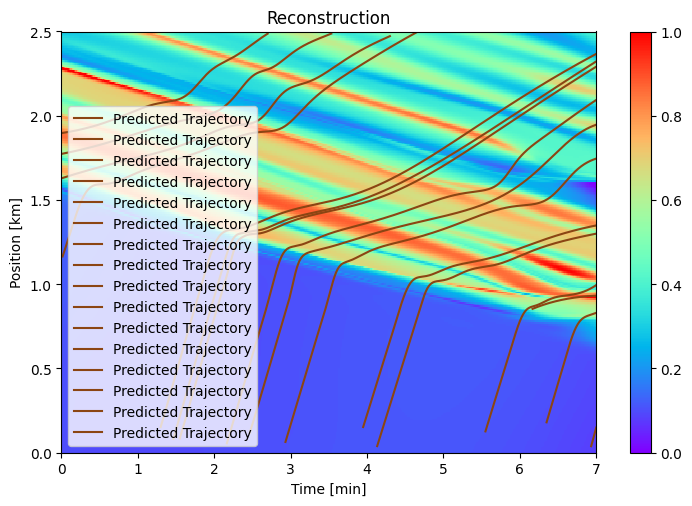
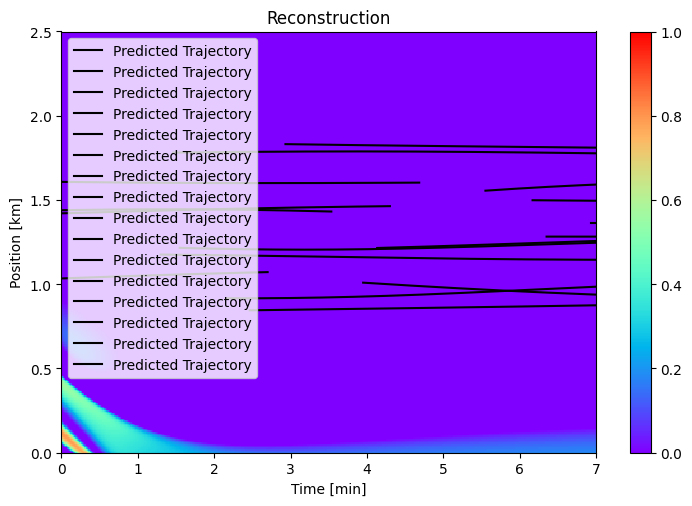
add data loss training

diff --git a/neural_network_pytorch.py b/neural_network_pytorch.py
@@ -11,8 +11,10 @@ import torch
 import torch.nn.functional as F
 import torch.nn as nn
 import torch.optim as optim
+from tqdm import tqdm
 from torch.autograd import Variable
 import numpy as np
+import torch
 
 class NeuralNetwork(nn.Module):
 
@@ -101,7 +103,7 @@ class NeuralNetwork(nn.Module):
         self.velocity_network = self.build_network(layers_speed, act=nn.Tanh())
 
 
-    def calculate_losses(self, t, x, u, v, X_f, t_g, u_v, only_data=False):
+    def calculate_losses(self, t, x, u, v, X_f, t_g, u_v):
         """
         Calculate and return the model losses based on inputs and physics.
         Parameters:
@@ -111,6 +113,7 @@ class NeuralNetwork(nn.Module):
             A dictionary of various loss components.
         """
         # Predictions
+        breakpoint()
         u_pred = torch.stack([self.net_u(t[i], x[i]) for i in range(len(t))]) - torch.stack(self.noise_rho_bar)
         v_pred = self.net_v(u)
         x_pred = torch.stack([self.net_x_pv(t_g[i], i) for i in range(len(t_g))])
@@ -125,65 +128,103 @@ class NeuralNetwork(nn.Module):
         MSEv2 = F.mse_loss(v, self.net_v(torch.stack(self.u_pred)))  # Placeholder, adjust as needed
 
 
-        if only_data:
-            return {
-                "MSEu1": MSEu1, "MSEu2": MSEu2,
-                "MSEtrajectories": MSEtrajectories,
-                "MSEv1": MSEv1, "MSEv2": MSEv2
-            }
-        else:
-            # Physics Losses
-            f_pred = self.net_f(X_f[:, 1], X_f[:, 0])  # Assuming X_f is [x, t]
-            g_pred = self.net_g(t_g)
+        f_pred = self.net_f(X_f[:, 1], X_f[:, 0])  # Assuming X_f is [x, t]
+        g_pred = self.net_g(t_g)
 
-            MSEf = torch.mean(f_pred**2)  # Residual of PDE Predictions flux function
-            MSEg = torch.mean(g_pred**2)  # Residual of PDE Predictions g function
-            MSEv = torch.mean(torch.relu(self.net_ddf(u_v))**2)  # Placeholder, adjust as needed
-            return {
-                "MSEu1": MSEu1, "MSEu2": MSEu2, "MSEf": MSEf, 
-                "MSEtrajectories": MSEtrajectories, "MSEg": MSEg,
-                "MSEv1": MSEv1, "MSEv2": MSEv2, "MSEv": MSEv
-            }
+        MSEf = torch.mean(f_pred**2)  # Residual of PDE Predictions flux function
+        MSEg = torch.mean(g_pred**2)  # Residual of PDE Predictions g function
+        MSEv = torch.mean(torch.relu(self.net_ddf(u_v))**2)  # Placeholder, adjust as needed
+        return {
+            "MSEu1": MSEu1, "MSEu2": MSEu2, "MSEf": MSEf, 
+            "MSEtrajectories": MSEtrajectories, "MSEg": MSEg,
+            "MSEv1": MSEv1, "MSEv2": MSEv2, "MSEv": MSEv
+        }
         
-    def preprocess_datapoints(self, x):
+
+    def calculate_data_losses(self, t, x, u, v):
+        # Predictions
+        u_pred = [self.net_u(t[i], x[i]) - self.noise_rho_bar[i] for i in range(len(t))] # list of tensors, since each tensor has a different shape
+        v_pred = [self.net_v(u[i]) for i in range(len(t))]
+        x_pred = [self.net_x_pv(t[i], i) for i in range(len(t))]  # data points or physics points?
+        # x_pred = torch.stack([self.net_x_pv(t_g[i], i) for i in range(len(t_g))]) # data points or physics points?
+
+        # Data Losses
+        MSEu1_list = [F.mse_loss(u[i], u_pred[i]) for i in range(len(u))]
+        MSEu1 = torch.mean(torch.stack(MSEu1_list))  # MSE for Adjusted Density Predictions (rho_pred - rho_true - noise)^2
+
+        MSEtrajectories_list = [F.mse_loss(x[i], x_pred[i]) for i in range(len(x))]
+        MSEtrajectories = torch.mean(torch.stack(MSEtrajectories_list))  # MSE for Trajectories Predictions (x_pred - x_true)^2
+
+        MSEv1_list = [F.mse_loss(v[i], v_pred[i]) for i in range(len(v))]
+        MSEv1 = torch.mean(torch.stack(MSEv1_list))  # MSE for Adjusted Density Predictions (rho_pred - rho_true - noise)^2
+
+        # MSEv1 = F.mse_loss(v, v_pred)  # MSE for Speed Predictions (v_pred - v_true)^2
+        # MSEv2 = F.mse_loss(v, self.net_v(torch.stack(self.u_pred)))  # Placeholder, adjust as needed
+
+        return {
+            "MSEu1": MSEu1,
+            "MSEtrajectories": MSEtrajectories,
+            "MSEv1": MSEv1
+        }
+
+        return {
+            "MSEu1": MSEu1, "MSEu2": MSEu2,
+            "MSEtrajectories": MSEtrajectories,
+            "MSEv1": MSEv1, "MSEv2": MSEv2
+        }
+
+        
+    def preprocess_datapoints_flatten(self, x):
         flattened_arrays = [arr.flatten() for arr in x] # Step 1: Flatten each ndarray
         concatenated_array = np.concatenate(flattened_arrays) # Concatenate the flattened arrays
         torch_tensor = torch.tensor(concatenated_array, dtype=torch.float32) # Step 3: Convert to a PyTorch tensor
         return torch_tensor
+    
+    def preprocess_datapoints(self, x):
+        return [torch.from_numpy(arr).float() for arr in x]
 
     # create a function to train the model with torch
     def train(self):
         '''
         Train the neural network
         '''
+
+        
         # Convert the data to torch tensors
         t = self.preprocess_datapoints(self.t) # 3267 data points in total (all PV data combined)
         x = self.preprocess_datapoints(self.x)
         u = self.preprocess_datapoints(self.u)
         v = self.preprocess_datapoints(self.v)
 
-        breakpoint()
+        # t = self.t
+        # x = self.x
+        # u = self.u
+        # v = self.v
 
-        X_f = torch.tensor(self.X_f, dtype=torch.float32)
+        X_f = torch.tensor(self.x_f, dtype=torch.float32)
         t_g = torch.tensor(self.t_g, dtype=torch.float32)
         u_v = torch.tensor(self.u_v, dtype=torch.float32)
         
         # Define the optimizer
         optimizer = optim.Adam(self.parameters(), lr=0.01)
-
-        breakpoint()
        
         # Train the model
-        for epoch in range(self.N_epochs):
-            print(f"epoch {epoch}")
+        self.N_epochs = 1000
+        for epoch in tqdm(range(self.N_epochs)):
+            
             optimizer.zero_grad()
-            losses = self.calculate_losses(t, x, u, v, X_f, t_g, u_v, only_data=True)
+            losses = self.calculate_data_losses(t, x, u, v)
+            print(losses)
+            loss = sum(losses.values())
+            # loss = sum([self.sigmas[i]*losses[key] for i, key in enumerate(losses.keys())])
             loss = sum([self.sigmas[i]*losses[key] for i, key in enumerate(losses.keys())])
+
             loss.backward()
             optimizer.step()
             if epoch % self.N_lambda == 0:
-                self.gamma_var = self.gamma_var - 0.1 * self.gamma_var.grad
-                self.noise_rho_bar = [self.noise_rho_bar[i] - 0.1 * self.noise_rho_bar[i].grad for i in range(self.N)]
+                pass
+                # self.gamma_var = self.gamma_var - 0.1 * self.gamma_var.grad
+                # self.noise_rho_bar = [self.noise_rho_bar[i] - 0.1 * self.noise_rho_bar[i].grad for i in range(self.N)]
         return losses
      
     # build pytorch network    
@@ -286,12 +327,18 @@ class NeuralNetwork(nn.Module):
         '''
         Return the standardized estimated agents' locations at t
         Parameters
-      
-        '''
+        '''        
+        predictions = []  # Define the variable "predictions"
+        t = torch.tensor(t, dtype=torch.float32)
+
+        predictions = self.net_x(t)
+
+        # breakpoint()
+        return predictions
         tf_dict = {}
         i = 0
-        for k, v in zip(self.t_tf, t):
+        for t in zip(self.t):
             tf_dict[k] = torch.tensor(v, dtype=torch.float32)
             i = i+1
-        return self.net_x(torch.stack([tf_dict[k] for k in self.t_tf])).detach().numpy()
+        return self.net_x(torch.stack([tf_dict[k] for k in self.t_f])).detach().numpy()
     

diff --git a/reconstruction_neural_network_pytorch.py b/reconstruction_neural_network_pytorch.py
@@ -10,6 +10,7 @@ import matplotlib.pyplot as plt
 from time import time
 from pyDOE import lhs
 from neural_network_pytorch import NeuralNetwork
+import torch
 
 def hms(seconds):
     m, s = divmod(seconds, 60)
@@ -92,7 +93,7 @@ class ReconstructionNeuralNetwork():
                                             layers_trajectories=layers_trajectories, 
                                             layers_speed=(1, 5, 5, 1),
                                             max_speed=v_max, beta=0.05,
-                                            N_epochs=3000, N_lambda=10, 
+                                            N_epochs=300, N_lambda=10, 
                                             sigmas=sigmas, opt=opt) # Creation of the neural network
             
     def createTrainingDataset(self, t, x, rho, v, v_max, L, Tmax, N_f, N_g, N_v):       
@@ -196,7 +197,7 @@ class ReconstructionNeuralNetwork():
         x = 2*(x - self.lb[0])/(self.ub[0] - self.lb[0])-1
         t = 2*(t - self.lb[1])/(self.ub[1] - self.lb[1])-1
         
-        return self.neural_network.predict(t, x)/2+0.5
+        return self.neural_network(t, x)/2+0.5
     
     def predict_speed(self, rho):
         '''
@@ -273,7 +274,6 @@ class ReconstructionNeuralNetwork():
         -------
         list of three Figures
             return the speed, reconstruction and error figures.
-
         '''
         
         x = axisPlot[0]
@@ -288,42 +288,48 @@ class ReconstructionNeuralNetwork():
             for j in range(0, Nt):
                 XY_prediction[k] = np.array([t[j], x[i]])
                 k = k + 1
-        tstar = XY_prediction[:, 0:1]
-        xstar = XY_prediction[:, 1:2]
+        tstar = torch.from_numpy(XY_prediction[:, 0:1]).float()
+        xstar = torch.from_numpy(XY_prediction[:, 1:2]).float()
+
+        # breakpoint()
         
-        rho_prediction = self.predict(tstar, xstar).reshape(Nx, Nt)
+        rho_prediction = self.neural_network.net_u(tstar, xstar).reshape(Nx, Nt)
+        rho_prediction = rho_prediction.detach().numpy()
         t_pred = [(np.linspace(np.amin(self.t[i]), np.amax(self.t[i]), t.shape[0])).reshape(-1, 1) for i in range(self.Nxi)]
         X_prediction = self.predict_trajectories(t_pred)
         rho_speed = np.linspace(0, 1).reshape(-1,1)
-        v_prediction = self.predict_speed(rho_speed).reshape(-1,1)
-        F_prediction = self.predict_F(rho_speed).reshape(-1,1)
+        # v_prediction = self.predict_speed(rho_speed).reshape(-1,1)
+        # F_prediction = self.predict_F(rho_speed).reshape(-1,1)
+
+        # breakpoint()
+
         
-        figSpeed = plt.figure(figsize=(7.5, 5))
-        plt.plot(rho_speed, v_prediction, rasterized=True, label=r'NN approximation of $V$')
-        plt.plot(rho_speed, F_prediction, rasterized=True, label=r'NN approximation of $F$')
-        densityMeasurements = np.empty((0,1))
-        speedMeasurements = np.empty((0,1))
-        for i in range(self.Nxi):
-            densityMeasurements = np.vstack((densityMeasurements, self.rho[i]))
-            speedMeasurements = np.vstack((speedMeasurements, self.v[i]))
-        plt.scatter(densityMeasurements, speedMeasurements, rasterized=True, 
-                    c='k', s=1, label=r'Data')
-        plt.xlabel(r'Normalized Density')
-        plt.ylabel(r'Speed [km/min]')
-        # plt.ylim(-v_prediction[0], v_prediction[0])
-        plt.xlim(0, 1)
-        plt.grid()
-        plt.legend()
-        plt.tight_layout()
-        # plt.title('Reconstruction')
-        # figSpeed.savefig('speed.eps', bbox_inches='tight')
-        figSpeed.savefig('speed_flow.png', bbox_inches='tight')
+        # figSpeed = plt.figure(figsize=(7.5, 5))
+        # plt.plot(rho_speed, v_prediction, rasterized=True, label=r'NN approximation of $V$')
+        # plt.plot(rho_speed, F_prediction, rasterized=True, label=r'NN approximation of $F$')
+        # densityMeasurements = np.empty((0,1))
+        # speedMeasurements = np.empty((0,1))
+        # for i in range(self.Nxi):
+        #     densityMeasurements = np.vstack((densityMeasurements, self.rho[i]))
+        #     speedMeasurements = np.vstack((speedMeasurements, self.v[i]))
+        # plt.scatter(densityMeasurements, speedMeasurements, rasterized=True, 
+        #             c='k', s=1, label=r'Data')
+        # plt.xlabel(r'Normalized Density')
+        # plt.ylabel(r'Speed [km/min]')
+        # # plt.ylim(-v_prediction[0], v_prediction[0])
+        # plt.xlim(0, 1)
+        # plt.grid()
+        # plt.legend()
+        # plt.tight_layout()
+        # # plt.title('Reconstruction')
+        # # figSpeed.savefig('speed.eps', bbox_inches='tight')
+        # figSpeed.savefig('speed_flow.png', bbox_inches='tight')
 
         figReconstruction = plt.figure(figsize=(7.5, 5))
         X, Y = np.meshgrid(t, x)
         plt.pcolor(X, Y, rho_prediction, vmin=0.0, vmax=1.0, shading='auto', cmap='rainbow', rasterized=True)
         for i in range(self.Nxi):
-            plt.plot(t_pred[i], X_prediction[i], color="saddlebrown", label='Predicted Trajectory')
+            plt.plot(t_pred[i], X_prediction[i].detach().numpy(), color="black", label='Predicted Trajectory')
         plt.xlabel(r'Time [min]')
         plt.ylabel(r'Position [km]')
         plt.xlim(min(t), max(t))
@@ -334,6 +340,7 @@ class ReconstructionNeuralNetwork():
         plt.legend()
         # figReconstruction.savefig('reconstruction.eps', bbox_inches='tight')
         figReconstruction.savefig('reconstruction.png', bbox_inches='tight')
+        breakpoint()
         
         figLambda = plt.figure(figsize=(7.5, 5))
         color_plot = plt.rcParams['axes.prop_cycle'].by_key()['color']
@@ -370,4 +377,4 @@ class ReconstructionNeuralNetwork():
         # figError.savefig('error.eps', bbox_inches='tight') 
         figError.savefig('error.png', bbox_inches='tight') 
         
-        return [figSpeed, figReconstruction, figError]
+        # return [figSpeed, figReconstruction, figError]
